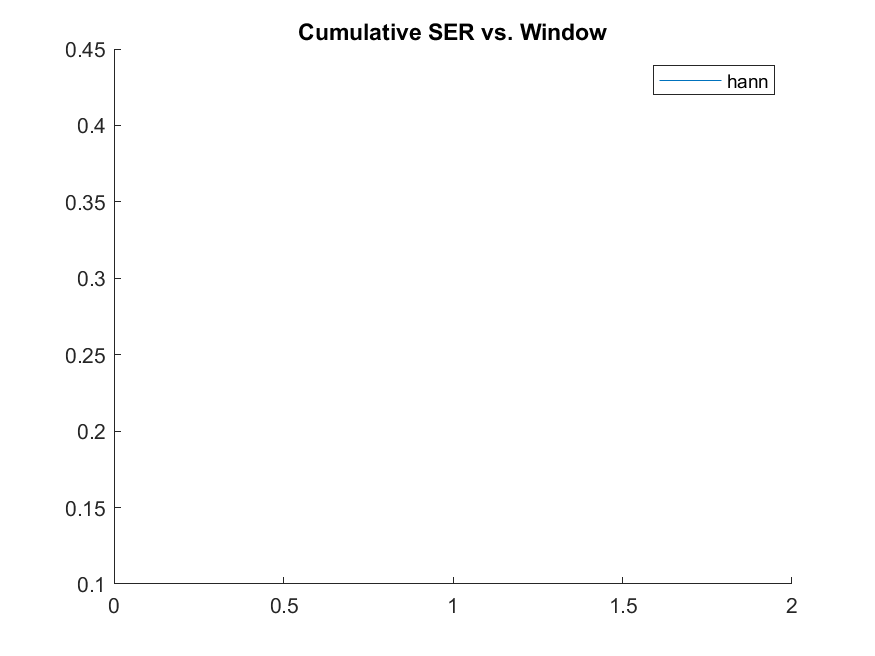
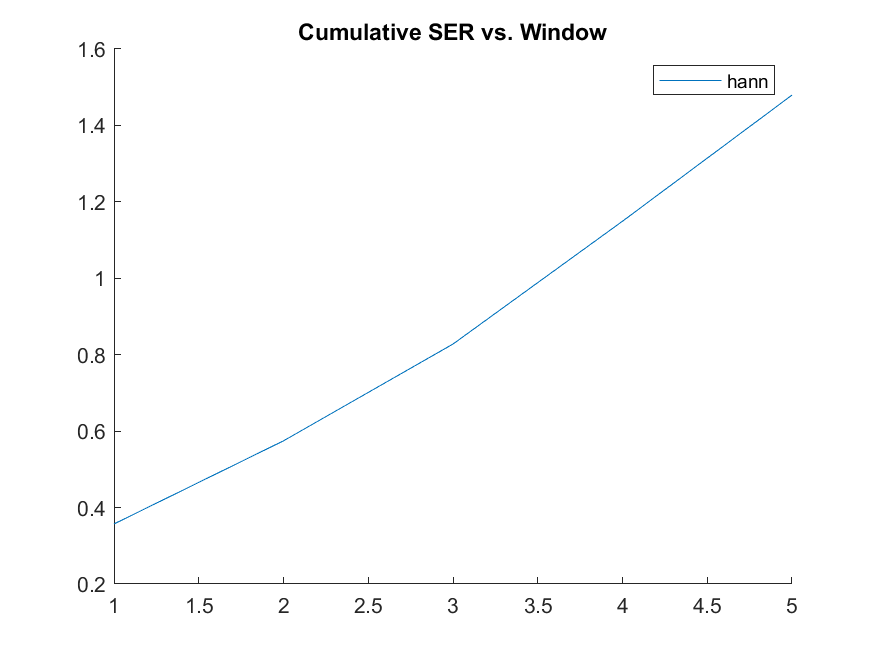
Changed regular aligntrack script for comparison

diff --git a/LoRa Mesh/AlignTrack/SchoolProj/Archive/LoRa_one_complete_packet_decoding_MULT2.m b/LoRa Mesh/AlignTrack/SchoolProj/Archive/LoRa_one_complete_packet_decoding_MULT2.m
@@ -61,7 +61,7 @@ tEnds = [];
 SER = [];
 cum_SER = [];
 new_SER = [];
-trials = 1;
+trials = 5;
 
 for trial = 1:1:trials
     trial
@@ -122,7 +122,6 @@ for trial = 1:1:trials
         while (shift(i) + chirp_len - 1) <= length(received_signal)
             % received signal after windowing and FFT
             [f, received_fft] = LoRa_demod_1(received_signal(shift(i):shift(i) + chirp_len - 1), fc, SF, BW, Fs, cfo, string(windows(window)));
-            [~, received_fft_abs, received_fft_imag] = LoRa_demod_frft(received_signal(shift(i):shift(i) + chirp_len - 1), fc, SF, BW, Fs, cfo, string(windows(window)));
             AA = AlignTrack(received_fft);
             
             if length(AA) > 1
